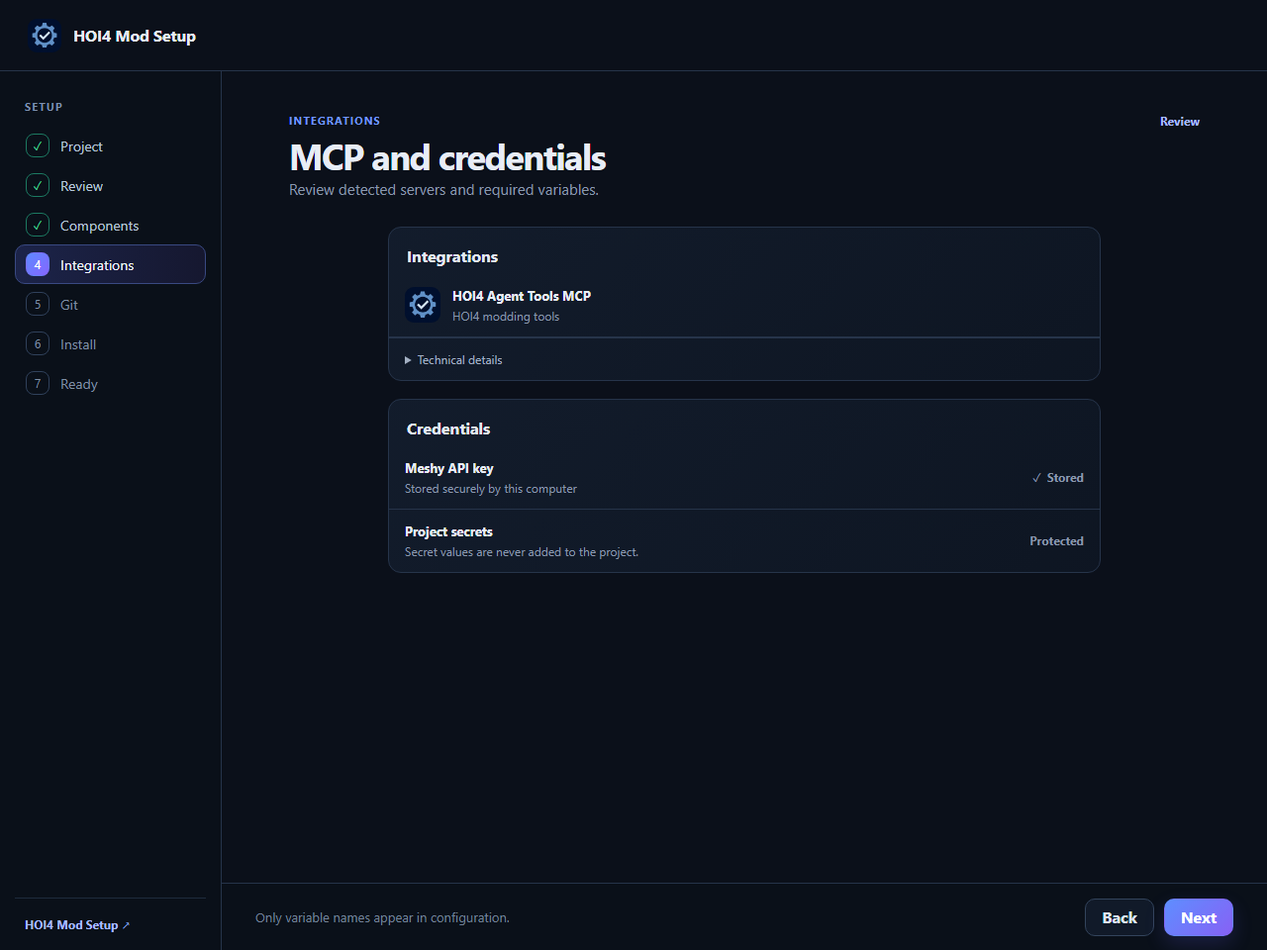
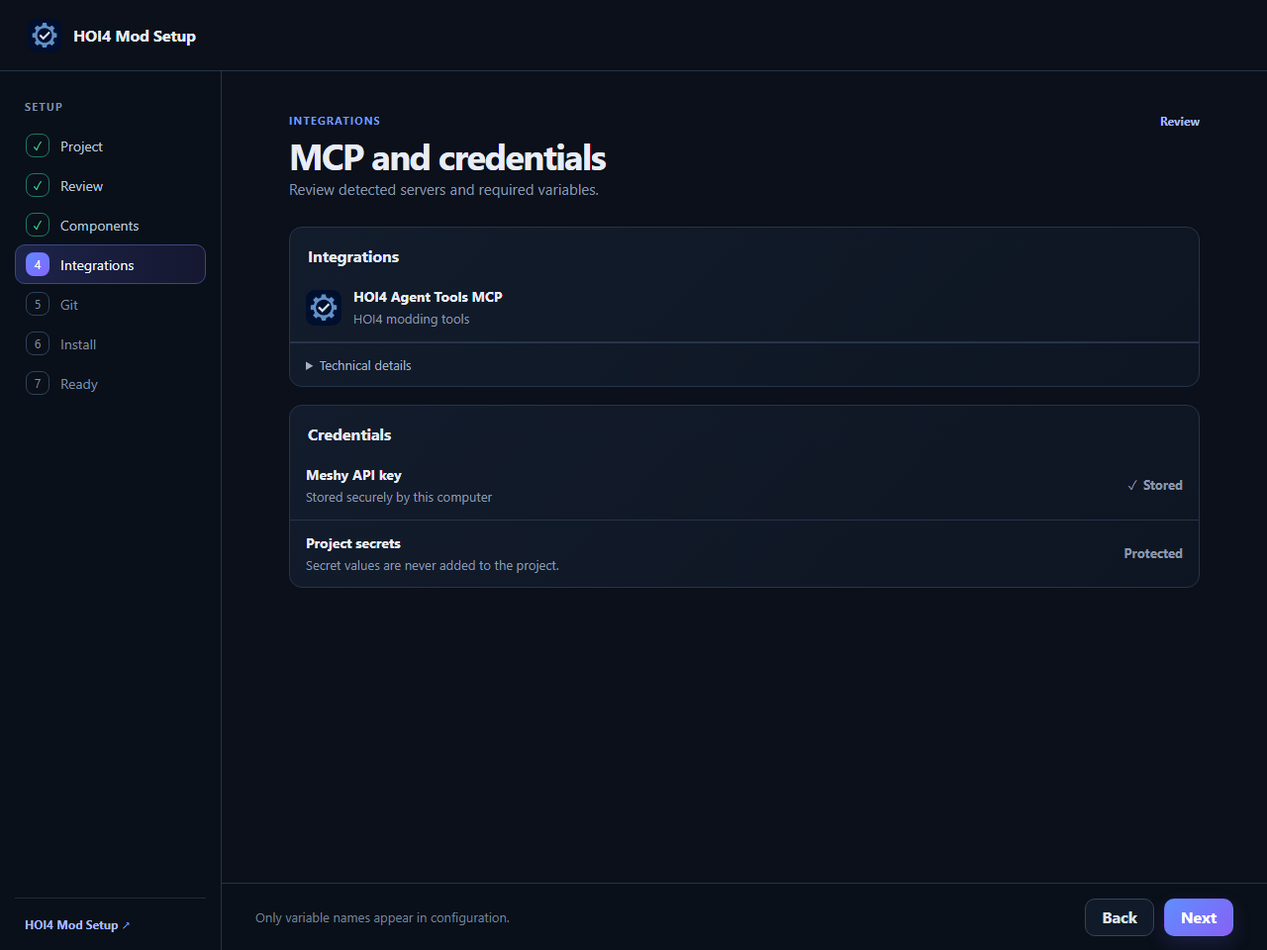
ui: redesign the image generation step; explain in-use stops on recovery (#199)
* ui: redesign the image generation step; explain in-use stops on recovery

- Image generation: one switch card with three facts, backend tiles with a
  monogram and what each backend needs, and the capability rows inside the
  backend disclosure. The radio names stay the backend names.
- Recovery: an Access is denied / file-in-use error now tells the user to
  close the coding client or hoi4-imagegen window holding the file; undo
  alone does not help while it stays open.
- Narrow windows: the step heading no longer reserves 320 px of height.
- Fix a pattern with literal backspace characters, so npm errors get the
  Python hint again.

* ui: larger list text, consistent MCP step width, no "0 files" for user-installed components

* ui: platform-specific Python and Node hints on the recovery screen

* test: accept the Linux python3 hint where the test runs on Linux

jsdom reports the host platform, so the recovery hint is python3 on the
ubuntu runner and python.org on Windows and macOS.

---------

diff --git a/src/App.tsx b/src/App.tsx
@@ -4,7 +4,7 @@ import { applyInstallationResult, approveInstallation, checkInstallationRequirem
 import { deriveGeneratedIdentity, HOI4_DESCRIPTOR_TAGS } from "./identity";
 import { base64ByteLength, base64DataUrl, renderCoverPng, renderReferenceJpeg } from "./lib/images";
 import { backendSettingsProblem, imageSettingLabel, imageSettingProblem } from "./lib/imageSettings";
-import type { AiModelCatalogStatus, AiModelOption, AiProviderId, AiProviderProfile, AppUpdateStatus, CodingEnvironmentId, CodingEnvironmentSelection, CodexAnalysisConfirmationValues, CodexAnalysisRequest, ComponentRecommendation, ComponentRow, ConflictChoice, ConflictPreview, ContextDocumentState, ContextImageState, FolderSelection, GeneratedArtifactPreview, GitOnlineAction, GitOnlinePlan, GitOnlineResult, ImageGenerationProviderDefinition, ImageGenerationSelection, LiveTestingSelection, InstallationPlan, LocalPortraitDiscovery, ManifestComponentPreview, McpSupport, PhaseId, PortraitPipelineState, PortraitProviderId, PortraitProviderStatus, ProjectIdentity, ReadinessReport, RecoveryChoice, ScanFinding, ScanProgress, ScreenId, SemanticConventions, SetupRequirement, SemanticProposalKey, SourceManifestPreview, StatusTone, TransactionJournal, WizardState, WorkflowHealthResult, WorkflowState } from "./types";
+import type { AiModelCatalogStatus, AiModelOption, AiProviderId, AiProviderProfile, AppUpdateStatus, CodingEnvironmentId, CodingEnvironmentSelection, CodexAnalysisConfirmationValues, CodexAnalysisRequest, ComponentRecommendation, ComponentRow, ConflictChoice, ConflictPreview, ContextDocumentState, ContextImageState, FolderSelection, GeneratedArtifactPreview, GitOnlineAction, GitOnlinePlan, GitOnlineResult, ImageBackend, ImageGenerationProviderDefinition, ImageGenerationSelection, LiveTestingSelection, InstallationPlan, LocalPortraitDiscovery, ManifestComponentPreview, McpSupport, PhaseId, PortraitPipelineState, PortraitProviderId, PortraitProviderStatus, ProjectIdentity, ReadinessReport, RecoveryChoice, ScanFinding, ScanProgress, ScreenId, SemanticConventions, SetupRequirement, SemanticProposalKey, SourceManifestPreview, StatusTone, TransactionJournal, WizardState, WorkflowHealthResult, WorkflowState } from "./types";
 import appIcon from "../src-tauri/icons/icon.png";
 import claudeModels from "./claude-models.json";
 import freeAssistantConfig from "./free-assistant.json";
@@ -3121,6 +3121,8 @@ function formatFindingDetails(raw: string): string {
 
 function formatManifestSize(component: ManifestComponentPreview): string {
   const bytes = component.expected_files.reduce((total, file) => total + (file.size ?? 0), 0);
+  // A component without project files (an MCP server or tool installed for the user) is not "0 files".
+  if (component.expected_files.length === 0) return "Installed for your user";
   const size = bytes >= 1024 * 1024 ? `${(bytes / (1024 * 1024)).toFixed(1)} MB` : bytes >= 1024 ? `${Math.round(bytes / 1024)} KB` : bytes ? `${bytes} B` : "—";
   return `${component.expected_files.length === 1 ? "1 file" : `${component.expected_files.length} files`} · ${size}`;
 }
@@ -3461,19 +3463,50 @@ export function ImageGenerationSetup({ state, update }: { state: WizardState; up
   const backendField = imagegen?.route.credential_fields?.find((field) => field.id === backend?.credential_field);
   const backendKey = backendField ? `${IMAGEGEN_PROVIDER_ID}.${backendField.id}` : "";
   const backendKeySaved = Boolean(backendKey && selection.credential_references[backendKey]);
+  const backendHint = (option: ImageBackend) => {
+    if (option.default) return "No key needed. Sign in after setup.";
+    const field = imagegen?.route.credential_fields?.find((candidate) => candidate.id === option.credential_field);
+    if (field) return field.display_name;
+    if (option.settings.some((setting) => setting.kind === "url")) return "Your own server address";
+    return "No key needed";
+  };
+  const capabilities = primary && <div className="image-capabilities" role="group" aria-label="What this backend supports">
+    <div><strong>References</strong><span>{primary.capabilities.reference_images?.notes ?? "Check the selected provider's model limits."}</span></div>
+    <div><strong>Transparent images</strong><span>{primary.capabilities.transparent_background?.notes ?? "Check the selected provider's model limits."}</span></div>
+    <div><strong>Edits</strong><span>{primary.capabilities.image_edits ? "Reference edits are available on supported models." : "This provider may make a new image from references instead of editing."}</span></div>
+  </div>;
   return <div className="stack narrow">
-    <section className="panel">
-      <PanelTitle title="Where images are made" />
-      <p className="muted">One tick installs hoi4-imagegen, and its browser sign-in opens after setup unless you pick another backend. A key stays in this computer's credential store, never in your project.</p>
-      {!catalog && <p className="muted" role="status">{loadMessage}</p>}
-      {catalog && imagegen && legacyIds.length === 0 && <label className="coding-environment-option image-checkbox"><input type="checkbox" name="image-generation" checked={usingImagegen} disabled={!compatible(imagegen)} onChange={(event) => chooseImagegen(event.target.checked)} /><span className="coding-environment-copy"><strong>Install hoi4-imagegen</strong><small>{imagegen.description} Uncheck it to make the art yourself.</small></span></label>}
-      {catalog && imagegen && usingImagegen && legacyIds.length === 0 && backends.length > 0 && <details className="image-backend-details" open={Boolean(backend && !backend.default)}><summary>Use another backend</summary><div className="image-backend-panel">
-        <span className="field-label" id="image-backend-label">Generate with</span>
-        <div className="coding-environment-options" role="radiogroup" aria-labelledby="image-backend-label">{backends.map((option) => <label className="coding-environment-option" key={option.id}><input type="radio" name="image-backend" value={option.id} checked={backend?.id === option.id} onChange={() => chooseBackend(option.id)} /><span className="coding-environment-copy"><strong>{option.display_name}</strong>{option.default && <small>Default. Signs in with your ChatGPT account after setup.</small>}{option.live_verified === false && <small>Untested with the real service.</small>}</span></label>)}</div>
-        <p className="muted">Setup downloads hoi4-imagegen from its GitHub release, checks its SHA-256, and installs it in this project.{backend?.default ? " After setup you can sign in with ChatGPT on the last screen." : ""}</p>
-        {backendField && <div className="image-provider-secret" key={backendField.id}><label className="field-label" htmlFor={`image-secret-${backendKey}`}>{backendField.display_name}</label><div className="input-with-action"><input id={`image-secret-${backendKey}`} className="text-input" type="password" autoComplete="off" value={drafts[backendKey] ?? ""} onChange={(event) => update({ imageGenerationCredentialDrafts: { ...drafts, [backendKey]: event.target.value } })} /><button type="button" className="input-action" disabled={!drafts[backendKey]?.trim() || savingKey === backendKey} onClick={() => imagegen && void saveCredential(imagegen, backendField.id)}>{savingKey === backendKey ? "Saving…" : "Store"}</button>{backendKeySaved && <button type="button" className="text-button" onClick={() => imagegen && void deleteCredential(imagegen, backendField.id)}>Delete</button>}</div><small className="muted">{backendKeySaved ? "Stored in the operating-system credential vault." : "Needed only for this backend. The key is not added to project files."}</small></div>}
-        {backend?.settings.map((setting) => { const value = selection.route_settings[IMAGEGEN_PROVIDER_ID]?.[setting.key] ?? ""; const problem = imageSettingProblem(setting.kind, value); return <div className="image-provider-secret" key={setting.key}><Field label={`${imageSettingLabel(setting.key)}${setting.required ? "" : " (optional)"}`} value={value} onChange={(next) => setRouteSetting(IMAGEGEN_PROVIDER_ID, setting.key, next.trim())} placeholder={setting.default ?? undefined} />{problem && <small className="status-review" role="alert">{problem}</small>}</div>; })}
-      </div></details>}
+    <section className={`panel image-panel${usingImagegen ? " is-on" : ""}`}>
+      {!catalog && <p className="muted image-loading" role="status">{loadMessage}</p>}
+      {catalog && imagegen && legacyIds.length === 0 && <label className="image-install">
+        <span className="image-install-copy">
+          <strong>Install hoi4-imagegen</strong>
+          <small>{imagegen.description}</small>
+        </span>
+        <input className="switch" type="checkbox" name="image-generation" checked={usingImagegen} disabled={!compatible(imagegen)} onChange={(event) => chooseImagegen(event.target.checked)} />
+      </label>}
+      {catalog && imagegen && legacyIds.length === 0 && (usingImagegen
+        ? <ul className="image-facts" aria-label="How hoi4-imagegen runs">
+          <li>Runs on this computer</li>
+          <li>Keys stay in the OS credential store</li>
+          {backend?.default ? <li>Sign in with ChatGPT after setup</li> : <li>Checked against its SHA-256 before install</li>}
+        </ul>
+        : <p className="muted image-off">No image tool is installed. You add artwork yourself.</p>)}
+      {catalog && imagegen && usingImagegen && legacyIds.length === 0 && backends.length > 0 && <details className="image-backend-details" open={Boolean(backend && !backend.default)}>
+        <summary><span>Use another backend</span>{backend && <small className="image-backend-current">Now: {backend.display_name}</small>}</summary>
+        <div className="image-backend-panel">
+          <span className="visually-hidden" id="image-backend-label">Generate with</span>
+          <div className="image-backend-grid" role="radiogroup" aria-labelledby="image-backend-label">{backends.map((option) => <div className="image-backend-option" key={option.id}>
+            <input id={`image-backend-${option.id}`} type="radio" name="image-backend" value={option.id} checked={backend?.id === option.id} onChange={() => chooseBackend(option.id)} aria-describedby={`image-backend-hint-${option.id}`} />
+            <span className="image-backend-mark" aria-hidden="true">{option.display_name.replace(/[^A-Za-z0-9]/g, "").slice(0, 2).replace(/^./, (first) => first.toUpperCase()) || "?"}</span>
+            {/* Only the name labels the radio; the whole tile is clickable through the label's overlay. */}
+            <span className="image-backend-copy"><span className="image-backend-title"><label className="image-backend-name" htmlFor={`image-backend-${option.id}`}>{option.display_name}</label>{option.default && <span className="image-backend-pill">Default</span>}</span><small id={`image-backend-hint-${option.id}`}>{backendHint(option)}</small>{option.live_verified === false && <small className="image-backend-untested">Untested with the real service.</small>}</span>
+          </div>)}</div>
+          {backendField && <div className="image-provider-secret" key={backendField.id}><label className="field-label" htmlFor={`image-secret-${backendKey}`}>{backendField.display_name}</label><div className="input-with-action"><input id={`image-secret-${backendKey}`} className="text-input" type="password" autoComplete="off" value={drafts[backendKey] ?? ""} onChange={(event) => update({ imageGenerationCredentialDrafts: { ...drafts, [backendKey]: event.target.value } })} /><button type="button" className="input-action" disabled={!drafts[backendKey]?.trim() || savingKey === backendKey} onClick={() => imagegen && void saveCredential(imagegen, backendField.id)}>{savingKey === backendKey ? "Saving…" : "Store"}</button>{backendKeySaved && <button type="button" className="text-button" onClick={() => imagegen && void deleteCredential(imagegen, backendField.id)}>Delete</button>}</div><small className="muted">{backendKeySaved ? "Stored in the operating-system credential vault." : "Needed only for this backend. The key is not added to project files."}</small></div>}
+          {backend?.settings.map((setting) => { const value = selection.route_settings[IMAGEGEN_PROVIDER_ID]?.[setting.key] ?? ""; const problem = imageSettingProblem(setting.kind, value); return <div className="image-provider-secret" key={setting.key}><Field label={`${imageSettingLabel(setting.key)}${setting.required ? "" : " (optional)"}`} value={value} onChange={(next) => setRouteSetting(IMAGEGEN_PROVIDER_ID, setting.key, next.trim())} placeholder={setting.default ?? undefined} />{problem && <small className="status-review" role="alert">{problem}</small>}</div>; })}
+          {capabilities}
+        </div>
+      </details>}
       {catalog && legacyIds.map((id) => {
         const legacy = catalog.providers.find((candidate) => candidate.id === id);
         const name = legacy?.display_name ?? id;
@@ -3483,11 +3516,10 @@ export function ImageGenerationSetup({ state, update }: { state: WizardState; up
           {legacy && target ? <><p className="muted">hoi4-imagegen now covers it with the {target.display_name} backend.{legacy.replaced_by?.credential_moves.length ? " Moving keeps your saved key in this computer's credential store." : ""}</p><button type="button" className="button secondary" onClick={() => void moveToImagegen(legacy)}>Move to hoi4-imagegen ({target.display_name})</button></> : <p className="muted">hoi4-imagegen does not cover it yet. Nothing changes until it does.</p>}
         </div>;
       })}
-      {retiredListed && <p className="muted" role="note">GPTImage is retired. Setup no longer installs it; use the ChatGPT sign-in in hoi4-imagegen instead.</p>}
-      {message && <p role="status" className="muted">{message}</p>}
-      <p className="muted" aria-live="polite">{loadMessage}</p>
+      {retiredListed && <p className="muted image-note" role="note">GPTImage is retired. Setup no longer installs it; use the ChatGPT sign-in in hoi4-imagegen instead.</p>}
+      {message && <p role="status" className="muted image-note">{message}</p>}
+      {catalog && <p className="visually-hidden" aria-live="polite">{loadMessage}</p>}
     </section>
-    {catalog && <section className="panel"><PanelTitle title="What the selected provider supports" /><div className="list-row"><strong>References</strong><span>{primary?.capabilities.reference_images?.notes ?? "Check the selected provider's model limits."}</span></div><div className="list-row"><strong>Transparent images</strong><span>{primary?.capabilities.transparent_background?.notes ?? "Check the selected provider's model limits."}</span></div><div className="list-row"><strong>Edits</strong><span>{primary?.capabilities.image_edits ? "Reference edits are available on supported models." : "This provider may make a new image from references instead of editing."}</span></div><p className="muted">The asset instructions will use these limits. Each image request is made separately, and generated transparency is checked after saving.</p></section>}
   </div>;
 }
 
@@ -4450,10 +4482,20 @@ function readableRecoveryAction(value: string) {
 }
 
 /** One plain sentence for what to do about a recorded setup failure. */
-export function recoveryNextStep(message: string | undefined, rollbackAllowed: boolean): string {
+export function recoveryNextStep(message: string | undefined, rollbackAllowed: boolean, platform: "windows" | "macos" | "linux" = currentUiPlatform()): string {
   const undo = rollbackAllowed ? "Choose Undo changes to return your mod to how it was before this setup began, then" : "Choose an option below, then";
-  if (message && /python|node\.js|npm|winget/i.test(message)) {
-    return `${undo} install Python from python.org (tick “Add python.exe to PATH”) and set up again. HOI4 Agent Tools needs it.`;
+  if (message && /access is denied|os error (?:5|32|33)\b|being used by another process|\bEBUSY\b|\bEPERM\b/i.test(message)) {
+    return "Another program is using a file in this project. That is usually a coding client (Claude Code, Codex, Cursor and others) running the project's MCP servers, or the hoi4-imagegen sign-in window. Close it, then choose Continue setup or try again. Undo changes alone does not help while that program stays open.";
+  }
+  if (message && /python/i.test(message)) {
+    return platform === "linux"
+      ? `${undo} install python3 with your package manager and set up again. HOI4 Agent Tools needs it.`
+      : `${undo} install Python from python.org${platform === "windows" ? " (tick “Add python.exe to PATH”)" : ""} and set up again. HOI4 Agent Tools needs it.`;
+  }
+  if (message && /node\.js|\bnode\b|\bnpm\b|winget/i.test(message)) {
+    return platform === "linux"
+      ? `${undo} install Node.js 22 or newer from your package manager so it is at /usr/bin/node (on Ubuntu 22.04 use the NodeSource Node 22 repository), and set up again. HOI4 Agent Tools needs it.`
+      : `${undo} install the Node.js LTS from nodejs.org${platform === "windows" ? " (or run winget install OpenJS.NodeJS.LTS)" : ""} and set up again. HOI4 Agent Tools needs it.`;
   }
   return `${undo} try again. If it stops at the same point, choose Copy diagnostics and include it in a report.`;
 }

diff --git a/src/styles.css b/src/styles.css
@@ -90,7 +90,7 @@ button:focus-visible, input:focus-visible, textarea:focus-visible, select:focus-
 .choice-grid, .two-column, .action-grid, .recovery-grid, .diff-grid { display: grid; gap: 16px; }
 .choice-grid, .two-column { grid-template-columns: repeat(2, minmax(0, 1fr)); }
 .choice-grid, .two-column { width: 100%; max-width: 920px; margin-inline: auto; }
-.stack.narrow.mcp-review { max-width: 720px; }
+/* The MCP step uses the same column width as the other steps. */
 .diff-grid { grid-template-columns: repeat(3, minmax(0, 1fr)); }
 .action-grid { grid-template-columns: repeat(2, minmax(0, 1fr)); }
 .recovery-grid { grid-template-columns: repeat(3, minmax(0, 1fr)); }
@@ -178,9 +178,9 @@ button:focus-visible, input:focus-visible, textarea:focus-visible, select:focus-
 .list-row > div, .server-row > span:nth-child(2), .component-row > span:nth-child(2), .radio-row > span:nth-child(2), .finding-row > span:nth-child(2), .change-row > span:nth-child(2) { min-width: 0; flex: 1 1 12rem; display: grid; gap: 4px; overflow-wrap: anywhere; }
 .toggle-row > .toggle-copy { min-width: 0; display: grid; flex: 1 1 auto; gap: 6px; overflow-wrap: anywhere; }
 .toggle-row > span:last-child { margin-left: auto; flex: 0 0 auto; }
-.list-row strong, .server-row strong, .component-row strong, .radio-row strong, .finding-row strong, .change-row strong, .check-row strong { font-size: 13px; }
+.list-row strong, .server-row strong, .component-row strong, .radio-row strong, .finding-row strong, .change-row strong, .check-row strong { font-size: 14px; }
 .toggle-row strong { font-size: 15px; }
-.list-row span, .server-row small, .component-row small, .radio-row small, .finding-row small, .change-row small { color: var(--muted); font-size: 12px; }
+.list-row span, .server-row small, .component-row small, .radio-row small, .finding-row small, .change-row small { color: var(--muted); font-size: 13px; line-height: 1.45; }
 .toggle-row small { color: var(--muted); font-size: 13px; }
 .list-row > .status, .server-row > .status, .component-row > .size, .change-row > .size { margin-left: auto; }
 .mono { font-family: ui-monospace, SFMono-Regular, Consolas, monospace; }
@@ -194,7 +194,7 @@ button:focus-visible, input:focus-visible, textarea:focus-visible, select:focus-
 .status-muted { color: #99a7ba; }
 .details { color: #9db5ff; font-size: 12px; }
 details { border-top: 1px solid var(--line); }
-summary { padding: 13px 16px; color: #a3b0c3; font-size: 12px; list-style-position: inside; }
+summary { padding: 13px 16px; color: #a3b0c3; font-size: 13px; list-style-position: inside; }
 details p { margin: 0; padding: 0 16px 16px; line-height: 1.55; }
 .panel > details[open] > summary { margin-bottom: 10px; }
 .panel > details > .field { min-width: 0; margin: 0; padding: 0 16px 16px; }
@@ -305,8 +305,8 @@ details p { margin: 0; padding: 0 16px 16px; line-height: 1.55; }
 .coding-environment-option input { width: 17px; height: 17px; margin: 1px 0 0; accent-color: #7680ff; }
 .coding-environment-copy { min-width: 0; display: grid; gap: 5px; }
 .coding-environment-copy strong, .coding-environment-copy small { display: block; min-width: 0; overflow-wrap: anywhere; }
-.coding-environment-copy strong { color: #e6edf8; font-size: 13px; line-height: 1.35; }
-.coding-environment-copy small { color: var(--muted); font-size: 12px; line-height: 1.5; }
+.coding-environment-copy strong { color: #e6edf8; font-size: 14px; line-height: 1.35; }
+.coding-environment-copy small { color: var(--muted); font-size: 13px; line-height: 1.5; }
 .coding-environment-unavailable { margin-top: 12px; }
 .coding-environment-unavailable ul { margin: 8px 0 0; padding-left: 18px; display: grid; gap: 6px; font-size: 12px; line-height: 1.5; }
 .coding-environment-unavailable li strong { color: #e6edf8; }
@@ -404,7 +404,7 @@ details p { margin: 0; padding: 0 16px 16px; line-height: 1.55; }
 
 @media (max-width: 900px) {
   .app-shell { width: 100%; min-height: 100vh; }
-  .workspace { grid-template-columns: 1fr; }.phase-rail { flex-direction: row; overflow-x: auto; padding: 10px 12px; border-right: 0; border-bottom: 1px solid var(--line); }.rail-label, .rail-repo { display: none; }.phase-item { flex: 0 0 auto; min-height: 34px; padding: 5px 8px; }.phase-number { width: 20px; height: 20px; }.content-scroll { padding: 28px 20px 40px; }.screen-heading { flex-direction: column; }.screen-heading .status { align-self: flex-start; }.footer-bar { flex-wrap: wrap; padding: 12px 20px; align-items: flex-end; }.footer-note { max-width: none; flex: 1 1 220px; }.footer-actions { flex: 1 1 auto; }.two-column, .choice-grid, .diff-grid { grid-template-columns: 1fr; }.recovery-grid { grid-template-columns: 1fr; }.diff-pane { min-height: 250px; }.diff-code { min-height: 200px; }.existing-setup-callout { align-items: stretch; flex-direction: column; }.maintenance-key { margin-left: 0; }
+  .workspace { grid-template-columns: 1fr; }.phase-rail { flex-direction: row; overflow-x: auto; padding: 10px 12px; border-right: 0; border-bottom: 1px solid var(--line); }.rail-label, .rail-repo { display: none; }.phase-item { flex: 0 0 auto; min-height: 34px; padding: 5px 8px; }.phase-number { width: 20px; height: 20px; }.content-scroll { padding: 28px 20px 40px; }.screen-heading { flex-direction: column; }.screen-heading > div:first-child { flex: 0 0 auto; width: 100%; }.screen-heading .status { align-self: flex-start; }.footer-bar { flex-wrap: wrap; padding: 12px 20px; align-items: flex-end; }.footer-note { max-width: none; flex: 1 1 220px; }.footer-actions { flex: 1 1 auto; }.two-column, .choice-grid, .diff-grid { grid-template-columns: 1fr; }.recovery-grid { grid-template-columns: 1fr; }.diff-pane { min-height: 250px; }.diff-code { min-height: 200px; }.existing-setup-callout { align-items: stretch; flex-direction: column; }.maintenance-key { margin-left: 0; }
   .proposal-list { grid-template-columns: 1fr; }
   .tag-options { grid-template-columns: repeat(2, minmax(0, 1fr)); }
 }
@@ -492,3 +492,48 @@ details p { margin: 0; padding: 0 16px 16px; line-height: 1.55; }
 .image-checkbox { margin-top: 12px; }
 .image-backend-details { margin-top: 12px; }
 .image-backend-details > summary { cursor: pointer; font-size: 13px; padding: 4px 0; }
+
+/* Image generation: one switch card, facts, and the backend grid behind a disclosure. */
+.image-panel { display: grid; gap: 0; }
+.image-loading, .image-note { margin: 0; padding: 14px 20px; }
+.image-install { display: flex; align-items: center; gap: 20px; padding: 20px 20px 14px; cursor: pointer; }
+.image-install-copy { min-width: 0; flex: 1; display: grid; gap: 6px; }
+.image-install-copy strong { color: #eef2fa; font-size: 18px; font-weight: 750; letter-spacing: -.01em; }
+.image-install-copy small { color: var(--muted-strong); font-size: 14px; line-height: 1.5; }
+.switch { appearance: none; position: relative; width: 48px; height: 28px; flex: 0 0 auto; margin: 0; border: 1px solid #3a4a66; border-radius: 999px; background: #1a2438; cursor: pointer; transition: background .15s ease, border-color .15s ease; }
+.switch::after { content: ""; position: absolute; top: 3px; left: 3px; width: 20px; height: 20px; border-radius: 50%; background: #8a98ad; transition: transform .15s ease, background .15s ease; }
+.switch:checked { border-color: transparent; background: linear-gradient(135deg, var(--blue), var(--violet)); }
+.switch:checked::after { transform: translateX(20px); background: #fff; }
+.switch:disabled { opacity: .5; cursor: not-allowed; }
+.switch:focus-visible { outline: 2px solid var(--focus); outline-offset: 3px; }
+.image-facts { display: flex; flex-wrap: wrap; gap: 8px 22px; margin: 0; padding: 0 20px 18px; list-style: none; }
+.image-facts li { display: flex; align-items: center; gap: 8px; color: #c3cee0; font-size: 13px; }
+.image-facts li::before { content: "✓"; color: var(--green); font-weight: 800; }
+.image-off { margin: 0; padding: 0 20px 18px; font-size: 14px; }
+.image-backend-details > summary { display: flex; align-items: center; gap: 12px; padding: 14px 20px; color: #b9c6db; font-size: 14px; }
+.image-backend-current { margin-left: auto; color: var(--muted); font-size: 13px; }
+.image-panel .image-backend-panel { gap: 14px; margin-top: 0; padding: 0 20px 20px; }
+.image-backend-grid { display: grid; grid-template-columns: repeat(auto-fill, minmax(240px, 1fr)); gap: 10px; }
+.image-backend-option { position: relative; min-width: 0; display: flex; align-items: center; gap: 12px; padding: 14px; border: 1px solid #344864; border-radius: 12px; background: #0a111c; cursor: pointer; }
+.image-backend-option:hover { border-color: #4a5f86; }
+.image-backend-option:has(input:checked) { border-color: #6f86ff; background: #121b31; box-shadow: 0 0 0 1px #6f86ff inset; }
+.image-backend-option:has(input:focus-visible) { outline: 2px solid var(--focus); outline-offset: 2px; }
+.image-backend-option input { position: relative; z-index: 1; width: 17px; height: 17px; flex: 0 0 auto; margin: 0; accent-color: #7680ff; }
+.image-backend-mark { width: 34px; height: 34px; flex: 0 0 auto; display: grid; place-items: center; border: 1px solid #33456a; border-radius: 9px; color: #c9d5ff; background: #15203a; font-size: 12px; font-weight: 800; letter-spacing: .02em; }
+.image-backend-copy { min-width: 0; flex: 1; display: grid; gap: 3px; }
+.image-backend-title { display: flex; flex-wrap: wrap; align-items: center; gap: 8px; }
+.image-backend-name { color: #e8edf7; font-size: 14px; font-weight: 700; cursor: pointer; }
+.image-backend-name::after { content: ""; position: absolute; inset: 0; border-radius: 12px; }
+.image-backend-copy small { color: var(--muted); font-size: 12px; line-height: 1.4; }
+.image-backend-pill { padding: 1px 8px; border-radius: 999px; color: #fff; background: #5865f2; font-size: 11px; font-weight: 750; }
+.image-capabilities { display: grid; border: 1px solid var(--line); border-radius: 12px; }
+.image-capabilities > div { display: grid; grid-template-columns: 11rem minmax(0, 1fr); gap: 12px; padding: 11px 14px; border-bottom: 1px solid var(--line); font-size: 13px; }
+.image-capabilities > div:last-child { border-bottom: 0; }
+.image-capabilities strong { color: #dbe3f1; }
+.image-capabilities span { color: var(--muted-strong); }
+@media (max-width: 640px) {
+  .image-capabilities > div { grid-template-columns: 1fr; gap: 4px; }
+  .image-install { align-items: flex-start; }
+}
+@media (prefers-reduced-motion: reduce) { .switch, .switch::after { transition: none; } }
+.image-backend-untested { color: var(--amber) !important; }

diff --git a/src/App.test.tsx b/src/App.test.tsx
@@ -2,7 +2,7 @@ import { backendSettingsProblem } from "./lib/imageSettings";
 import { act, cleanup, fireEvent, render, screen, waitFor, within } from "@testing-library/react";
 import { StrictMode, useState } from "react";
 import { afterEach, beforeEach, describe, expect, it, vi } from "vitest";
-import App, { CopyDiagnosticsButton, analysisBrief, CodingEnvironments, Components, ContextAttachments, contextEvidence, Conflict, DryRun, Findings, Identity, ImageGenerationSetup, LiveTestingSetup, liveTestingSelectionValid, Mcp, Mesh, Ready, Scan, Update, UpdateSourceOptions, Welcome, Workflows, buildAnalysisConfirmationValues, dynamicMaintenanceOptionalComponentIds, estimatePlanPreparationProgress, estimateRemainingTime, estimateSemanticPlanningProgress, imageGenerationComponentIds, initialState, integrationReviewNeeded, maintenanceReviewScreen, nextScreen, previousScreen, manifestComponentSupportsPlatform, normalizeCodingEnvironmentSelection, codingEnvironmentOptions, recoveryProgress } from "./App";
+import App, { recoveryNextStep, CopyDiagnosticsButton, analysisBrief, CodingEnvironments, Components, ContextAttachments, contextEvidence, Conflict, DryRun, Findings, Identity, ImageGenerationSetup, LiveTestingSetup, liveTestingSelectionValid, Mcp, Mesh, Ready, Scan, Update, UpdateSourceOptions, Welcome, Workflows, buildAnalysisConfirmationValues, dynamicMaintenanceOptionalComponentIds, estimatePlanPreparationProgress, estimateRemainingTime, estimateSemanticPlanningProgress, imageGenerationComponentIds, initialState, integrationReviewNeeded, maintenanceReviewScreen, nextScreen, previousScreen, manifestComponentSupportsPlatform, normalizeCodingEnvironmentSelection, codingEnvironmentOptions, recoveryProgress } from "./App";
 import { applyInstallationResult, approveInstallation, runAgentSetupResult, approveScanEvidence, buildInstallationPlanResult, buildMaintenancePlanResult, cancelClaudeLogin, cancelCodexLogin, checkForAppUpdate, checkInstallationRequirements, confirmCodexAnalysis, draftModDescription, findInterruptedTransaction, forgetContextAttachment, installAppUpdate, moveImageGenerationCredential, logoutClaudeResult, logoutCodexResult, openCodexLoginUrlResult, openExternalUrlResult, openInCodingEnvironment, pickContextDocuments, pickContextImages, pickProjectFolder, previewDescriptorsResult, previewInstallationConflict, previewSourceManifestResult, readAiAccount, readAiModels, readCodexAccount, readTransactionJournal, removeImageGenerationCredential, rollbackInstallationResult, runCodexAnalysisResult, scanProject, startClaudeLogin, startCodexLogin, storeImageGenerationCredential, suggestProjectPaths, waitForClaudeLoginResult, waitForCodexLoginResult, readDiagnostics } from "./lib/tauri";
 import type { AiAccountStatus, AiProviderId, CodexAnalysisResult, ContextDocument, ContextImage, FolderSelection, InstallationPlan, ScanFinding, ScanProgress, SourceManifestPreview, WizardState } from "./types";
 import { renderCoverPng, renderReferenceJpeg } from "./lib/images";
@@ -2537,7 +2537,8 @@ describe("HOI4 Mod Setup wizard", () => {
 
     expect(await screen.findByText("What stopped setup")).toBeInTheDocument();
     expect(screen.getAllByText(/Python is unavailable for the source-declared MCP bootstrap/).length).toBeGreaterThan(0);
-    expect(screen.getByText(/install Python from python.org .*HOI4 Agent Tools needs it/)).toBeInTheDocument();
+    // The hint follows the test machine's platform (jsdom reports it in its user agent).
+    expect(screen.getByText(/install (Python from python.org|python3 with your package manager).*HOI4 Agent Tools needs it/)).toBeInTheDocument();
   });
 
   it("does not blame Python when the failure names the tools component but not Python", async () => {
@@ -2564,7 +2565,7 @@ describe("HOI4 Mod Setup wizard", () => {
     fireEvent.change(screen.getByLabelText("Project folder"), { target: { value: "C:\mods\removal" } });
 
     expect(await screen.findByText("What stopped setup")).toBeInTheDocument();
-    expect(screen.queryByText(/install Python from python.org/)).not.toBeInTheDocument();
+    expect(screen.queryByText(/install (Python from python.org|python3 with your package manager)/)).not.toBeInTheDocument();
     expect(screen.getByText(/try again\. If it stops at the same point/)).toBeInTheDocument();
   });
 
@@ -3334,5 +3335,23 @@ describe("optional setup context", () => {
     expect(screen.getByText("Context changed — run the review again to use it.")).toBeInTheDocument();
     fireEvent.click(screen.getByRole("button", { name: "Review again" }));
     expect(update).toHaveBeenCalledWith(expect.objectContaining({ codexAnalysis: undefined, codexAnalysisRecord: undefined, plan: undefined }));
+  });
+});
+
+describe("recovery guidance", () => {
+  it("tells the user to close the program that holds a file when Windows refuses access", () => {
+    for (const message of [
+      "transaction error: post-install action imagegen.hoi4_imagegen could not use a file: Access is denied. (os error 5)",
+      "The process cannot access the file because it is being used by another process. (os error 32)",
+      "npm error code EBUSY",
+    ]) {
+      expect(recoveryNextStep(message, true)).toMatch(/Close it/);
+      expect(recoveryNextStep(message, true)).toMatch(/Undo changes alone does not help/);
+    }
+    expect(recoveryNextStep("Python was not found", true, "windows")).toMatch(/python[.]org.*PATH/);
+    expect(recoveryNextStep("Python was not found", true, "linux")).toMatch(/python3/);
+    expect(recoveryNextStep("npm was not found", true, "windows")).toMatch(/nodejs[.]org.*winget/);
+    expect(recoveryNextStep("npm was not found", true, "linux")).toContain("/usr/bin/node");
+    expect(recoveryNextStep("something else", false)).toMatch(/Copy diagnostics/);
   });
 });

diff --git a/CHANGELOG.md b/CHANGELOG.md
@@ -4,6 +4,11 @@ HOI4 Mod Setup follows semantic versioning.
 
 ## Unreleased
 
+- Redesign the Image generation step: one switch card for hoi4-imagegen with what it does at a glance, and the other backends as labelled tiles (with what each needs, such as an API key or a server address) and their limits behind "Use another backend". The leftover "Image providers loaded." line is gone.
+- Explain an "Access is denied" or "file in use" stop on the recovery screen: close the coding client or hoi4-imagegen window that holds the file, then continue. Undo changes alone did not help while that program stayed open.
+- Fix the step heading reserving a large empty gap above the content in narrow windows.
+- Make list and option text easier to read (13 to 14 px instead of 12 to 13 px), give the MCP step the same width as the other steps, and show a component installed for your user (such as the HOI4 Agent Tools server) as "Installed for your user" instead of "0 files".
+- Give the recovery screen the right install hint for each platform: Python from python.org on Windows and macOS, python3 from the package manager on Linux, and Node.js (winget or nodejs.org, or a package-manager Node 22 at /usr/bin/node on Linux) for Node and npm errors. The npm case never matched before because of a broken pattern.
 - Offer HOI4 Live Tools on macOS. HOI4 Live Tools 1.4.1 installs its Python server on macOS under `~/Library/Application Support/hoi4-live-tools`, and the kit pins it for macOS. Setup now accepts a live-testing catalog that lists Windows and macOS for HOI4 Live Tools and runs its reviewed bootstrap on macOS with the same verified Python as the Agent Tools bootstrap (python.org or Apple's command-line tools Python). It registers the installed launcher, `~/Library/Application Support/hoi4-live-tools/app/hoi4-live-tools`, for the selected clients. Linux still has no HOI4 Live Tools route.
 - Install HOI4 Agent Tools on Apple silicon Macs (klimPaskov/Agentic-HOI4-Modding#124). Setup reads manifest format 7, whose HOI4 Agent Tools health action carries a macOS target and pins. On macOS the registrations for every selected client start the private official Node.js that the package's bootstrap installs (`~/Library/Application Support/hoi4-mod-setup/npm/node/bin/node`) with the package entry, as on Linux. The runtime is accepted only with the Node.js Foundation Developer ID signature (Team ID `HX7739G8FX`). The health check, readiness and update all treat macOS as a native route. Setup releases that read only format 6 report that an app update is needed when the package moves to format 7.
 - Find and accept Python on macOS for the package scripts. The MCP bootstrap and the other Python steps required a python.org signature but had no macOS identity for it, so they never ran on a Mac. They now accept the python.org build (Developer ID, Team ID `BMM5U3QVKW`) and Apple's own CPython from the Command Line Tools or Xcode. The lookup names each framework's real `bin/python3.N`, because `bin/python3` there is a link the search refuses.
